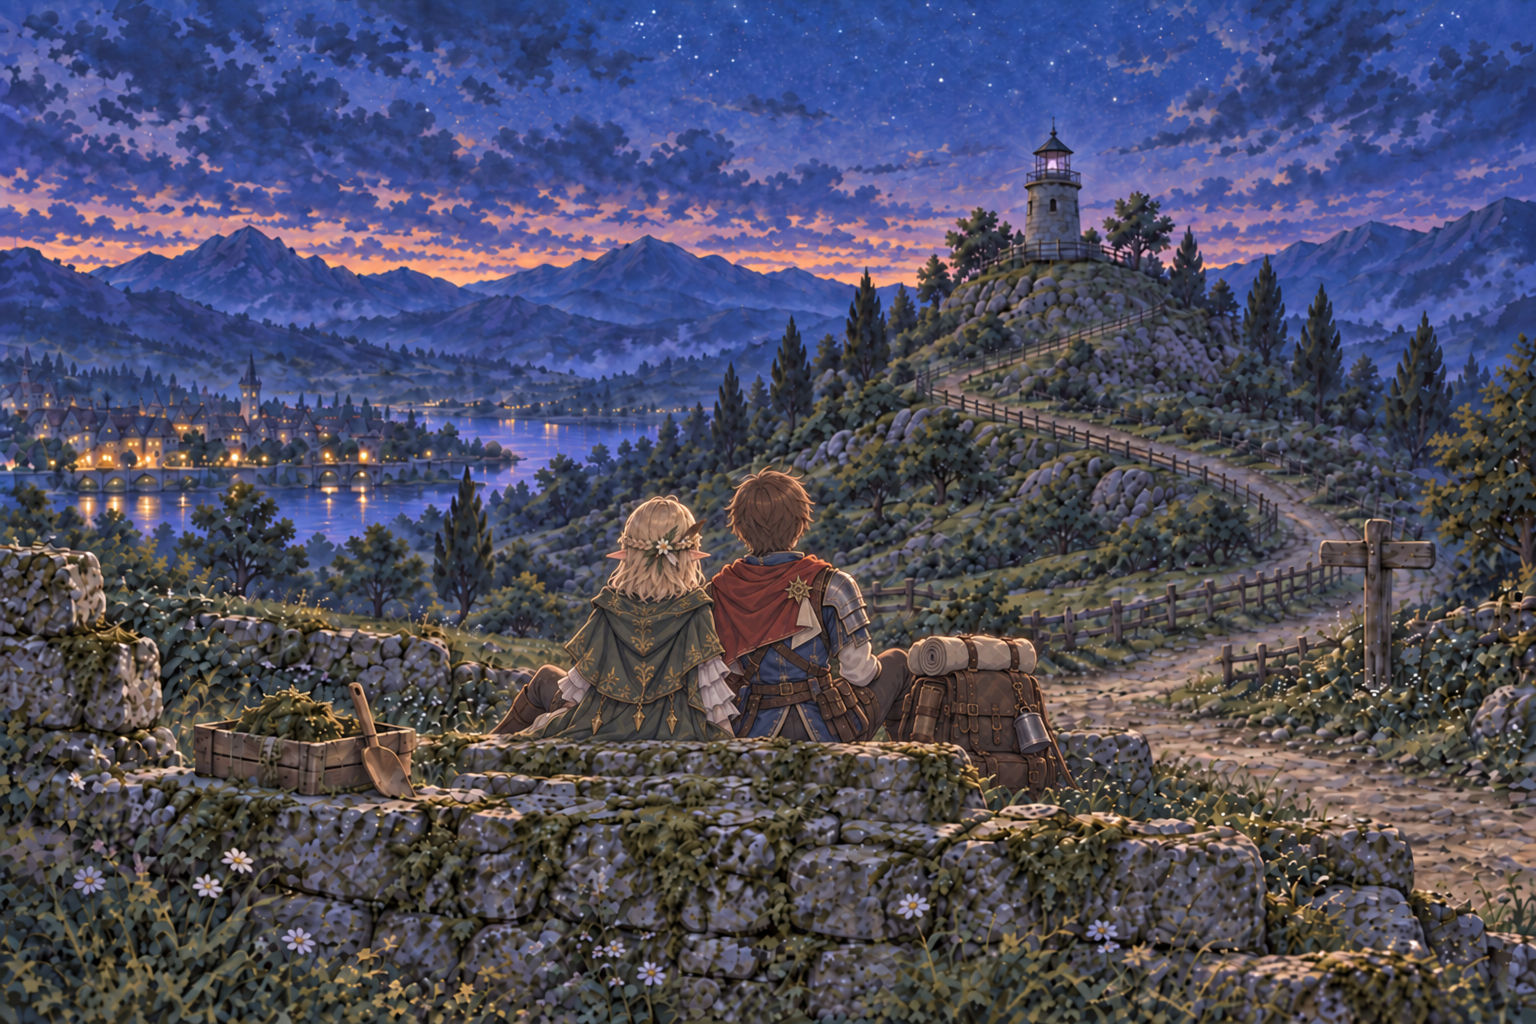
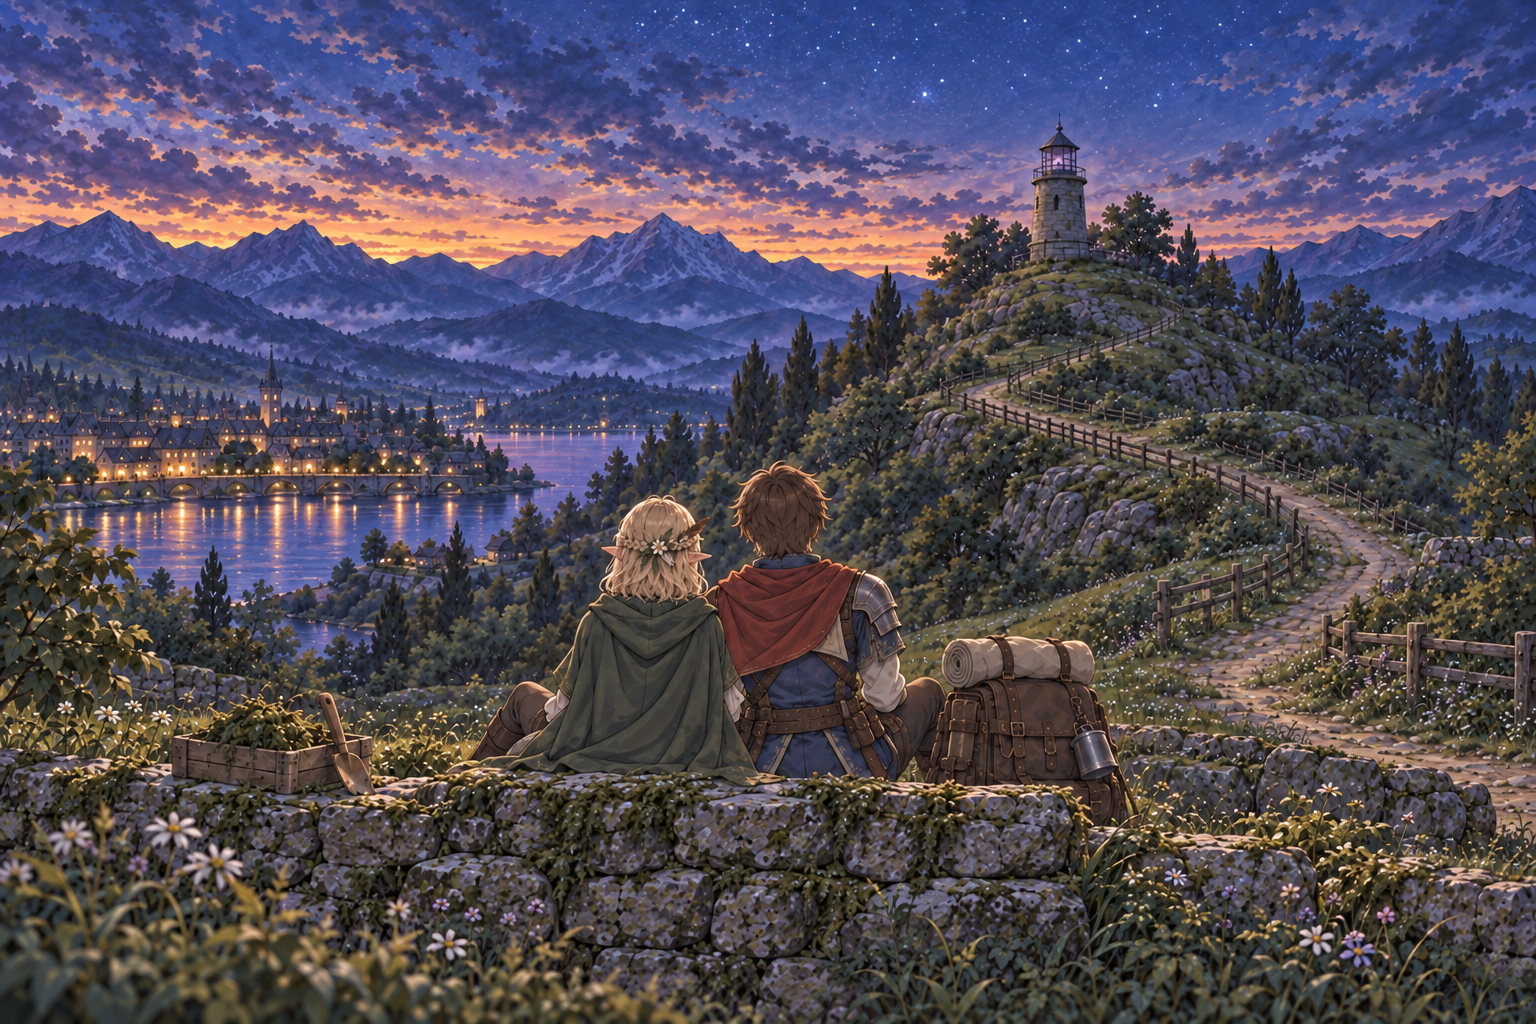
Adopt recreated tower restoration still with plain costume backs

diff --git a/docs/art/story-art.md b/docs/art/story-art.md
@@ -56,7 +56,7 @@
 
 組み込み image_gen で1536×1024の初版を生成。採用画像は2026-09-17にユーザー提供のフードを下ろした版をもとに、塔の窓の灯りを淡い紫へ編集し、`assets/source/stories/tower-light-restored.png` へ保存した。`tower-moss-removal-return` の0始まり6行目、塔に淡い紫の光がともる瞬間から表示する。読了後はアルバムでも鑑賞できる。1-8には一枚絵を追加せず、水路の修理までに分けた。
 
-二人は寄り添って座り、正面の塔を向く後ろ姿。2026-10-05に最新設定画へ合わせ、アリアの肩〜鎖骨丈の金髪・小さな編み込みと花飾り、レオンの短い片肩マントと旅道具を更新した。アリアのフードは下ろしたまま。塔の窓には弱い紫の灯りがともり、風景・二人の距離・表示開始位置を維持する。[更新記録](../art-generation/tower-restored-refresh-20261005.json)を参照。
+二人は寄り添って座り、正面の塔を向く後ろ姿。2026-10-05に最新設定画へ合わせ、全体を新しく描き直した版を採用した。アリアは肩〜鎖骨丈の金髪・小さな編み込みと花飾り、下ろしたフードを見せる。マントとフードの背面は無地の緑にし、レオンの背面にも胸用のバッジを置かない。短い片肩マントと、横に置いた背嚢・巻き毛布を描く。塔の窓の弱い紫の灯り、二人の距離と表示開始位置を維持する。[更新記録](../art-generation/tower-restored-refresh-20261005.json)を参照。
 
 初版と差し替え時のプロンプト、採用画像の出典とハッシュは [制作記録](../art-generation/stage-1-9-art.json) に保存する。モデル識別子はツールから返されていない。画像の確認とブラウザ・実機確認は区別する。
 

diff --git a/docs/art/story-art-gallery.md b/docs/art/story-art-gallery.md
@@ -28,7 +28,7 @@
 
 ![塔の再点灯](../../public/stories/tower-light-restored.webp)
 
-第一章1-9。塔に淡い紫の光が戻る行で表示。2026-10-05に最新設定画へ更新。アリアはフードを下ろし、肩〜鎖骨丈の金髪と花飾りを見せてレオンと寄り添って座る。レオンは短い片肩マントと多めの旅道具を持つ。二人は正面の塔を見上げ、窓には弱い紫の灯りがともる。[更新記録](../art-generation/tower-restored-refresh-20261005.json)と[初版の制作記録](../art-generation/stage-1-9-art.json)を参照。
+第一章1-9。塔に淡い紫の光が戻る行で表示。2026-10-05に最新設定画に合わせた再作成版を採用。アリアはフードを下ろし、肩〜鎖骨丈の金髪と花飾りを見せてレオンと寄り添って座る。アリアのマント背面は無地の緑にし、レオンの背面にもバッジを置かない。レオンは短い片肩マントと、横に置いた背嚢・巻き毛布を持つ。二人は正面の塔を見上げ、窓には弱い紫の灯りがともる。[更新記録](../art-generation/tower-restored-refresh-20261005.json)と[初版の制作記録](../art-generation/stage-1-9-art.json)を参照。
 
 ## 第二章
 
